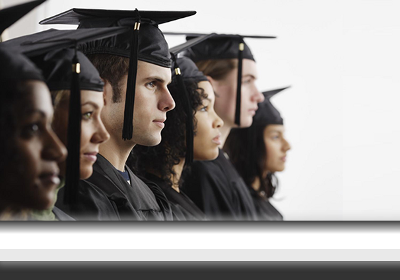
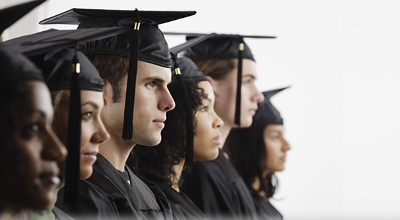
navigatie bar onderdelen

diff --git a/Site/CSS.css b/Site/CSS.css
@@ -2,6 +2,37 @@
 /*
 * { border: 1px solid red;}
 */
+
+ul{
+list-style-type:none;
+margin:0;
+padding:0;
+overflow:hidden;
+background:url(img/navigatie.png);
+}
+
+li.inspringZ{
+float: left;
+background:url(img/navigatie.png);
+}
+
+a:link,a:visited{
+display: inline;
+font-family: Verdana;
+color:#000000;              /*kleur Letters */
+text-align: center;
+padding:19px;
+text-decoration:none;
+text-transform:uppercase;
+}
+
+a:hover, a:active{
+background: url(img/selected_button.png);
+background-repeat: repeat
+}
+
+
+
 body{
 	max-width: 960px;
 	min-width: 920px;
@@ -11,7 +42,7 @@ body{
 }
 
 h1{
-	height: 280px;
+	height: 220px;
 	font-size: 3em;
 	background-image: url(img/upper_part_site1_small.png);
 	background-repeat: repeat-x;
@@ -193,7 +224,7 @@ div.rand{
 }
 
 div.logo{
-	height: 280px;
+	height: 220px;
 	background-image: url(img/upper_part_site1.png);
 	background-repeat: no-repeat;
 }

diff --git a/Site/content_page.html b/Site/content_page.html
@@ -4,12 +4,27 @@
 <head>
 <link rel="stylesheet" type="text/css" href="CSS.css">
 <title>Studie pagina</title>
+
+
 </head>
 
 <body><div class="rand">
+
+
 <h1><div class="logo"></div></h1>
+<ul>
+<li class="inspringZ"><a href="#home">Home</a></li>
+<li class="inspringZ"><a href="#Bacheloropleidingen">Bachelor</a></li>
+<li class="inspringZ"><a href="#Masteropleidingen">Master</a></li>
+<li class="inspringZ"><a href="#Opleiding">Instellingen</a></li>
+</ul>
+
+
+
+
 <!-- titel van de pagina, studie naam uit xml bestand -->
 <div class="title_grd"><h2>Kunstmatige Intelligentie</h2></div>
+
 <p></p>
 <h5>HOME > BACHELOROPLEIDINGEN > KUNSTMATIGE INTELLIGENTIE > POSTS > MIJN VERHAAL</h5>
 <h4>MIJN VERHAAL</h4>
